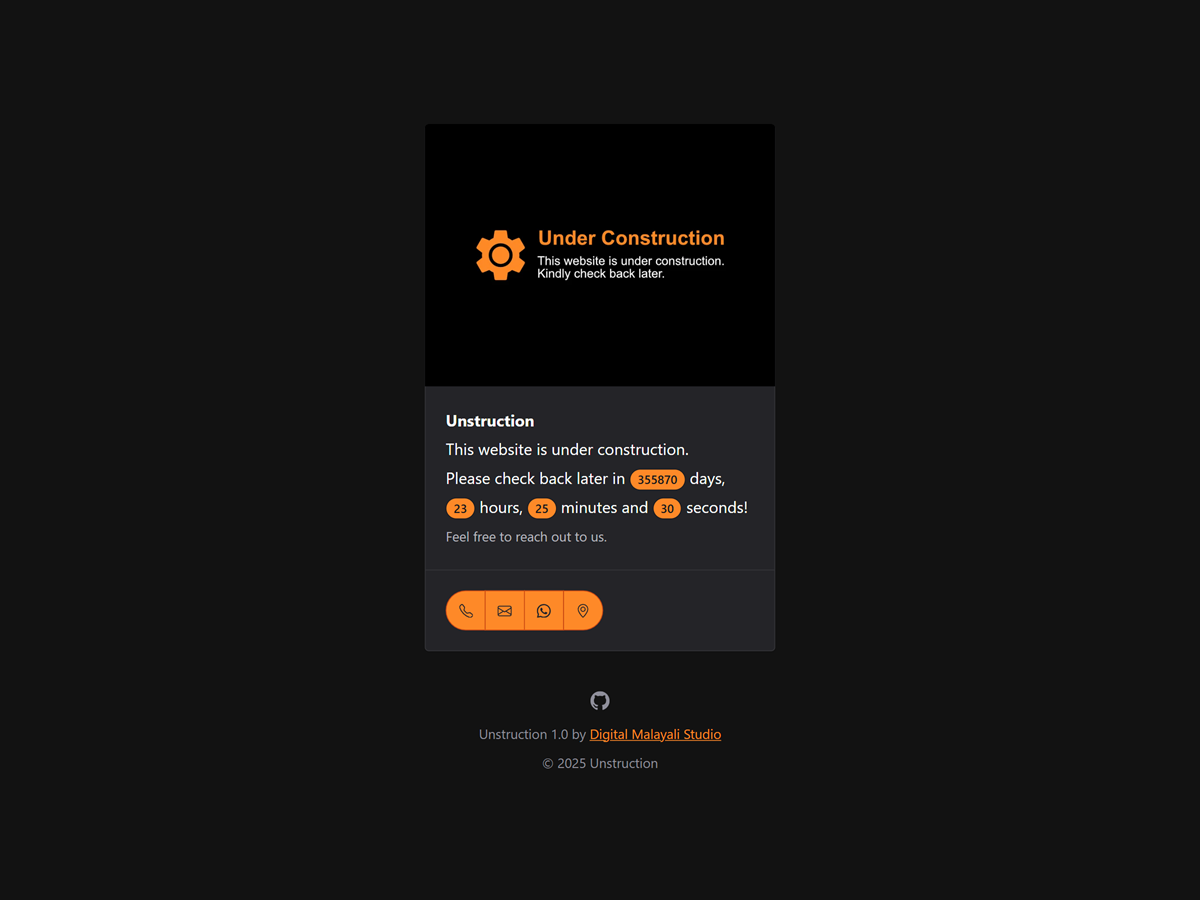
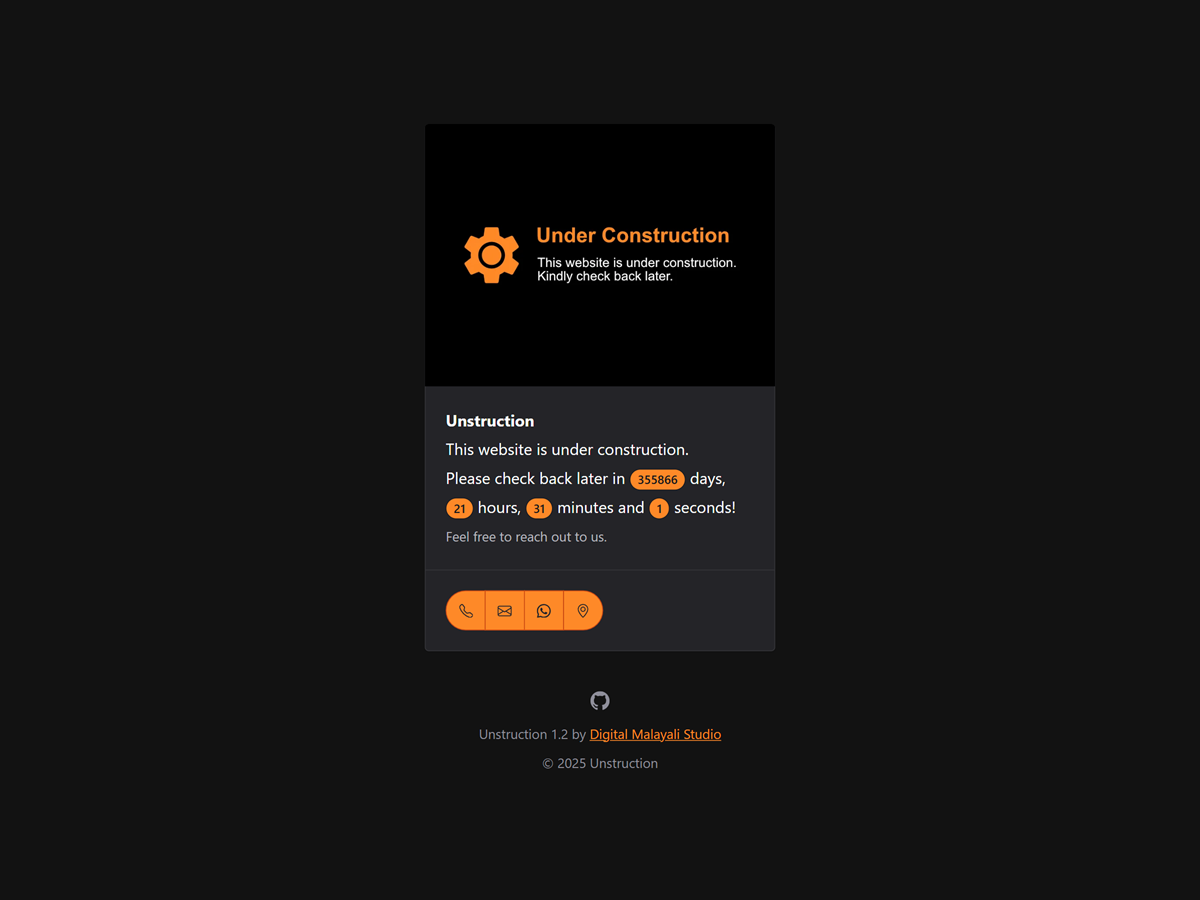
fix: :fire: fixed more links, updated block preview

Changed region(s): [[0.37, 0.2489, 0.6167, 0.3111], [0.37, 0.5289, 0.6167, 0.5911]]

diff --git a/assets/js/block-variations.js b/assets/js/block-variations.js
@@ -49,7 +49,7 @@ registerBlockVariation('core/group', {
 			{
 				name: 'core/image',
 				attributes: {
-					url: 'https://digitalmalayalistudio.github.io/unstruction-jekyll-theme/assets/preview.webp',
+					url: 'https://raw.githubusercontent.com/DigitalMalayaliStudio/unstruction-wordpress-theme/refs/heads/main/assets/images/unstruction.webp',
 					sizeSlug: 'medium',
 				},
 			},
@@ -139,7 +139,7 @@ registerBlockVariation('core/group', {
 				[
 					'core/html',
 					{
-						content: '<sl-button-group label=Alignment><sl-button circle href=tel:123456789 size=medium><sl-icon label=Phone name=telephone></sl-icon></sl-button><sl-button circle href=mailto:mail@example.com size=medium><sl-icon label=Mail name=envelope></sl-icon></sl-button><sl-button circle href=https://wa.me/91123456789 size=medium><sl-icon label=WhatsApp name=whatsapp></sl-icon></sl-button><sl-button circle href=https://maps.google.com size=medium target=_blank><sl-icon label=Map name=geo-alt></sl-icon></sl-button></sl-button-group>'
+						content: '<sl-button-group label=Alignment><sl-button circle href=tel:# size=medium><sl-icon label=Phone name=telephone></sl-icon></sl-button><sl-button circle href=mailto:# size=medium><sl-icon label=Mail name=envelope></sl-icon></sl-button><sl-button circle href=# size=medium><sl-icon label=WhatsApp name=whatsapp></sl-icon></sl-button><sl-button circle href=# size=medium target=_blank><sl-icon label=Map name=geo-alt></sl-icon></sl-button></sl-button-group>'
 					}
 				]
 			],
@@ -179,7 +179,7 @@ registerBlockVariation('core/group', {
 			{
 				name: 'core/image',
 				attributes: {
-					url: 'https://digitalmalayalistudio.github.io/unstruction-jekyll-theme/assets/preview.webp',
+					url: 'https://raw.githubusercontent.com/DigitalMalayaliStudio/unstruction-wordpress-theme/refs/heads/main/assets/images/unstruction.webp',
 					sizeSlug: 'medium',
 				},
 			},

diff --git a/style.css b/style.css
@@ -7,7 +7,7 @@ Description: Free block theme for setting up a simple and easy “Website Under 
 Requires at least: 6.8
 Tested up to: 6.8
 Requires PHP: 7.4
-Version: 1.1
+Version: 1.2
 License: GNU General Public License v3
 License URI: https://www.gnu.org/licenses/gpl-3.0.html
 Text Domain: unstruction
